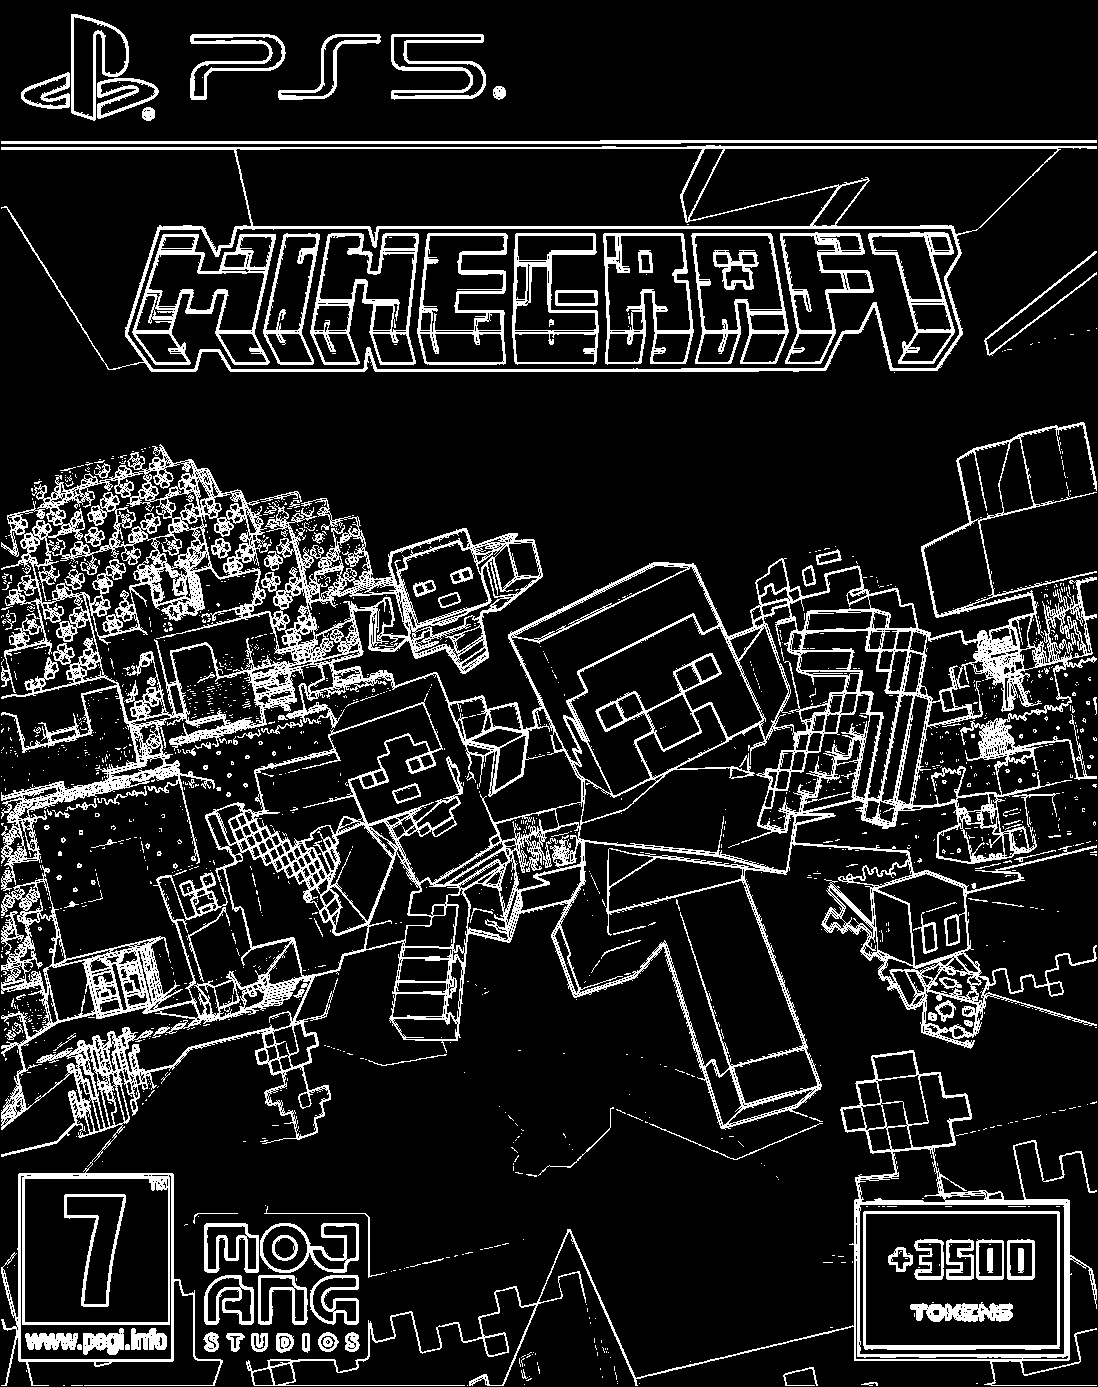
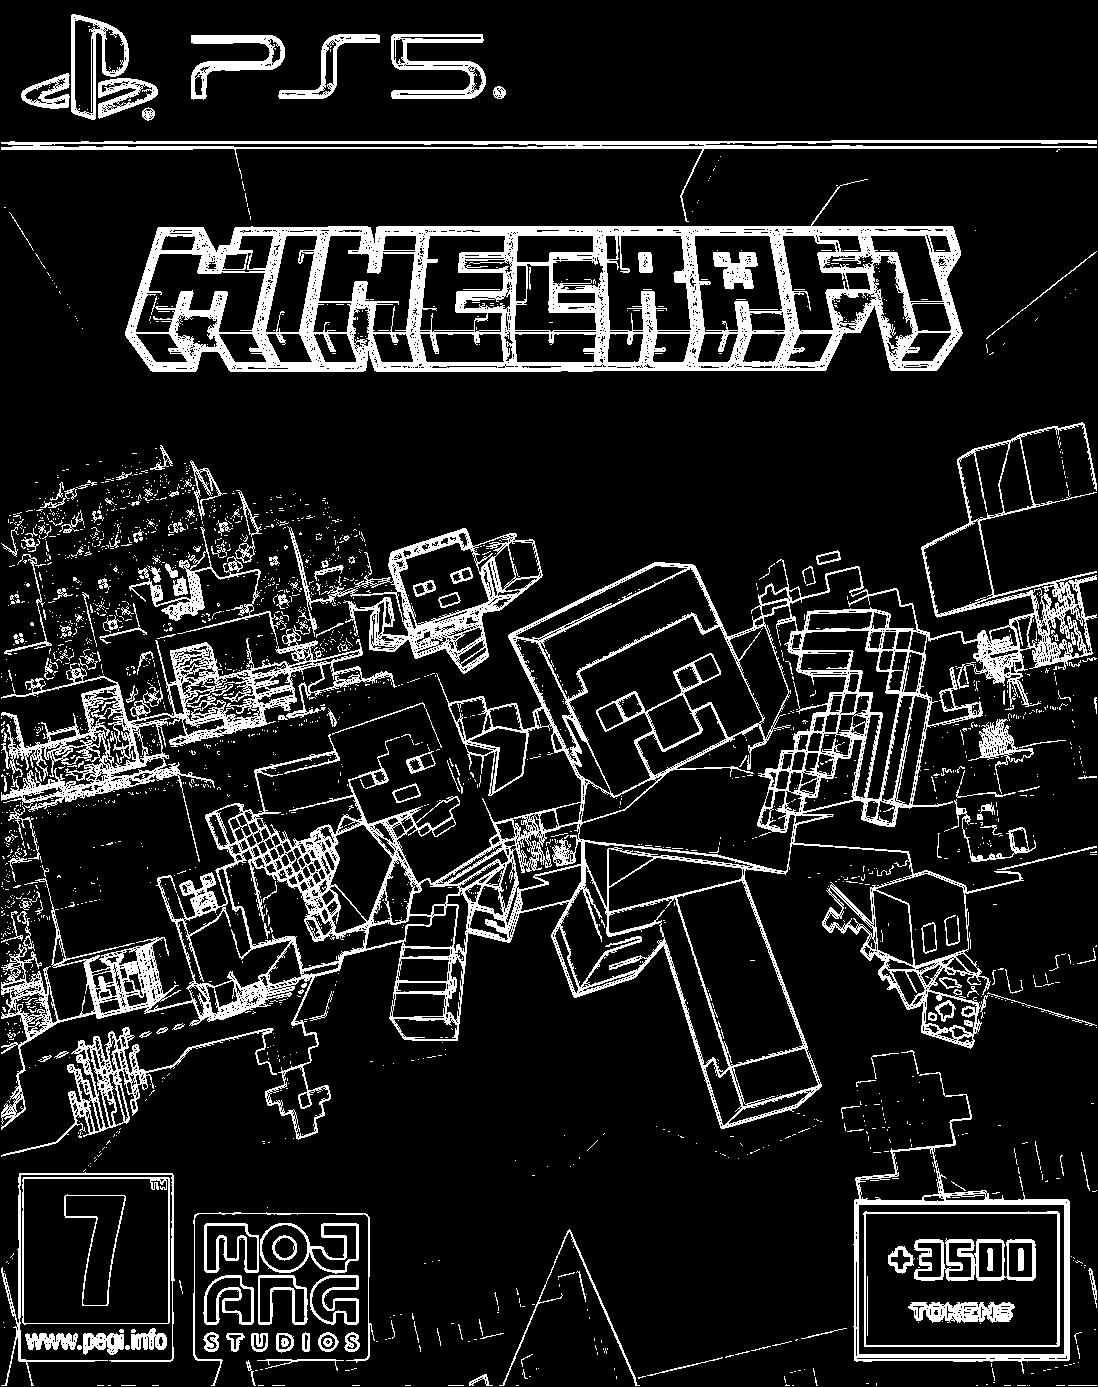
Added adaptive threshold and blur to main program

diff --git a/sobel_sequential.cpp b/sobel_sequential.cpp
@@ -2,10 +2,11 @@
 #include <filesystem>
 #include <iostream>
 #include <cmath>
+#include <time.h>
 
 int main(int argc, char** argv) {
     if (argc != 3) {
-        std::cerr << "Usage: make run IMAGE=<image_path> THRESHOLD=<threshold> (default = 100)" << std::endl;
+        std::cerr << "Usage: make run IMAGE=<image_path> BLUR=true" << std::endl;
         return 1;
     }
 
@@ -14,7 +15,8 @@ int main(int argc, char** argv) {
     std::string imageName = fs_path.filename().string();
     std::string dirPath = fs_path.parent_path().parent_path().string();
 
-    int THRESHOLD = atoi(argv[2]);
+    std::string blur = argv[2];
+    bool BLUR = blur == "true";
 
     cv::Mat image = cv::imread(imagePath);
 
@@ -27,8 +29,10 @@ int main(int argc, char** argv) {
     int cols = image.cols;
 
     cv::Mat grayscaleImage = cv::Mat::zeros(image.size(), CV_8UC1);
+    cv::Mat sobelImage = cv::Mat::zeros(image.size(), CV_8UC1);
     cv::Mat result = cv::Mat::zeros(image.size(), CV_8UC1);
 
+    clock_t start = clock();
     for (int i = 0; i < rows; ++i) {
         for (int j = 0; j < cols; ++j) {
             cv::Vec3b pixel = image.at<cv::Vec3b>(i, j);
@@ -37,6 +41,33 @@ int main(int argc, char** argv) {
             int blue = pixel[2];
             grayscaleImage.at<uchar>(i,j) = 0.11 * pixel[0] + 0.59 * pixel[1] + 0.3 * pixel[2];
         }
+    }
+
+    if (BLUR) {
+
+        int B[3][3] = {
+            {1, 1, 1},
+            {1, 1, 1},
+            {1, 1, 1},
+        };
+
+        for (int i = 1; i < rows - 1; ++i) {
+            for (int j = 1; j < cols - 1; ++j) {
+                int c = 0;
+
+                for (int k1 = -1; k1 <= 1; ++k1) {
+                    for (int k2 = -1; k2 <= 1; ++k2) {
+                        int pixelVal = grayscaleImage.at<uchar>(i + k1, j + k2);
+                        c += B[k1 + 1][k2 + 1] * pixelVal;
+                    }
+                }
+
+                sobelImage.at<uchar>(i,j) = c / 9;
+            }
+        }
+    }
+    else {
+        sobelImage = grayscaleImage;
     }
 
     int Gx[3][3] = {
@@ -51,6 +82,8 @@ int main(int argc, char** argv) {
         {-1, -2, -1}
     };
 
+    int r[3][3];
+
     for (int i = 1; i < rows - 1; ++i) {
         for (int j = 1; j < cols - 1; ++j) {
             int cx = 0;
@@ -58,22 +91,58 @@ int main(int argc, char** argv) {
 
             for (int k1 = -1; k1 <= 1; ++k1) {
                 for (int k2 = -1; k2 <= 1; ++k2) {
-                    int pixelVal = grayscaleImage.at<uchar>(i + k1, j + k2);
+                    int pixelVal = sobelImage.at<uchar>(i + k1, j + k2);
+                    r[k1 + 1][k2 + 1] = grayscaleImage.at<uchar>(i + k1, j + k2);
+
                     cx += Gx[k1 + 1][k2 + 1] * pixelVal;
                     cy += Gy[k1 + 1][k2 + 1] * pixelVal;
                 }
             }
 
+            for (int l = 0; l < 3; ++l) {
+                if (r[l][0] < r[l][1])
+                    std::swap(r[l][0], r[l][1]);
+                if (r[l][0] < r[l][2])
+                    std::swap(r[l][0], r[l][2]);
+                if (r[l][1] < r[l][2])
+                    std::swap(r[l][1], r[l][2]);
+            }
+
+            for (int l = 0; l < 3; ++l) {
+                if (r[0][l] < r[1][l])
+                    std::swap(r[0][l], r[1][l]);
+                if (r[0][l] < r[2][l])
+                    std::swap(r[0][l], r[2][l]);
+                if (r[1][l] < r[2][l])
+                    std::swap(r[1][l], r[2][l]);
+            }
+
+            int m[3];
+            m[0] = r[0][2];
+            m[1] = r[1][1];
+            m[2] = r[2][0];
+
+            if (m[0] < m[1])
+                std::swap(m[0], m[1]);
+            if (m[0] < m[2])
+                std::swap(m[0], m[2]);
+            if (m[1] < m[2])
+                std::swap(m[1], m[2]);
+
+            int threshold = m[1];
+
             float magnitude = std::sqrt(cx * cx + cy * cy);
 
-            result.at<uchar>(i, j) = (magnitude > THRESHOLD) ? 255 : 0;
+            result.at<uchar>(i, j) = (magnitude > threshold) ? 255 : 0;
         }
     }
+    clock_t end = clock();
+    double durationSeconds = (double)(end - start) / CLOCKS_PER_SEC;
 
     std::string outputImagePath = dirPath + "/edges/edges_" + imageName;
     cv::imwrite(outputImagePath, result);
 
     std::cout << "Edges image saved as " << outputImagePath << std::endl;
-
+    std::cout << "Algorithm took: " << durationSeconds*1000 << "ms";
     return 0;
 }
